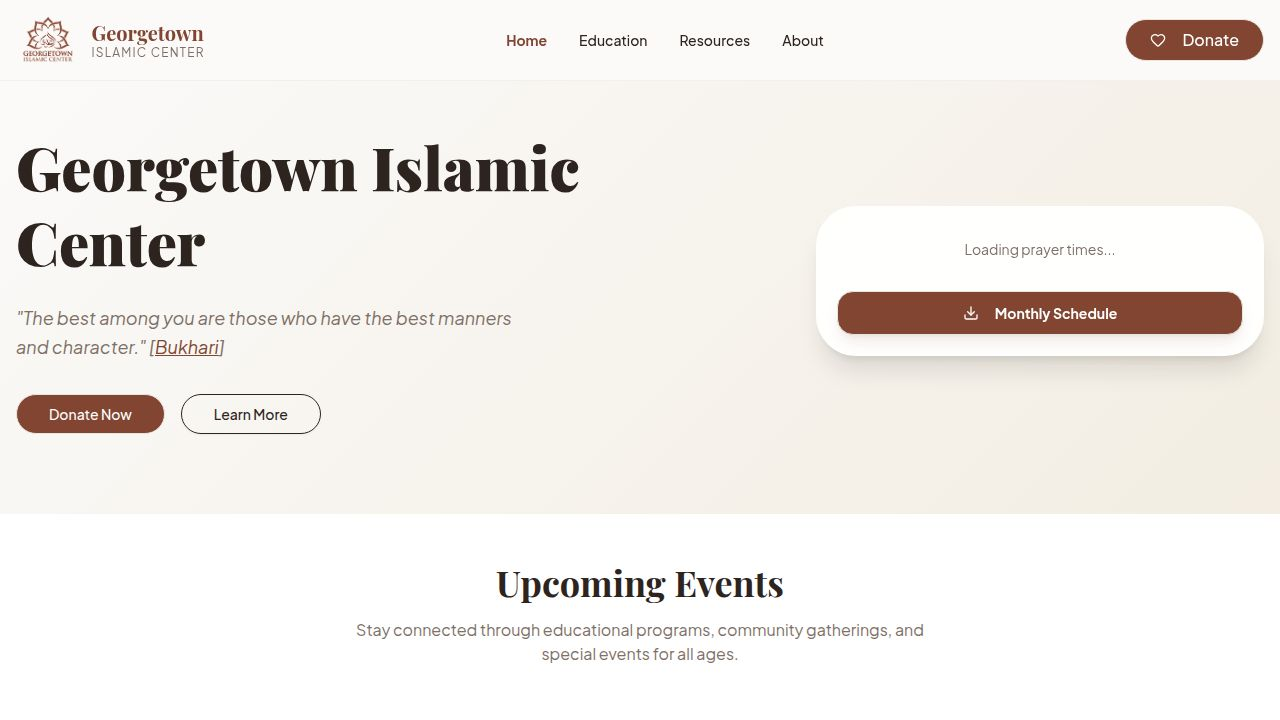
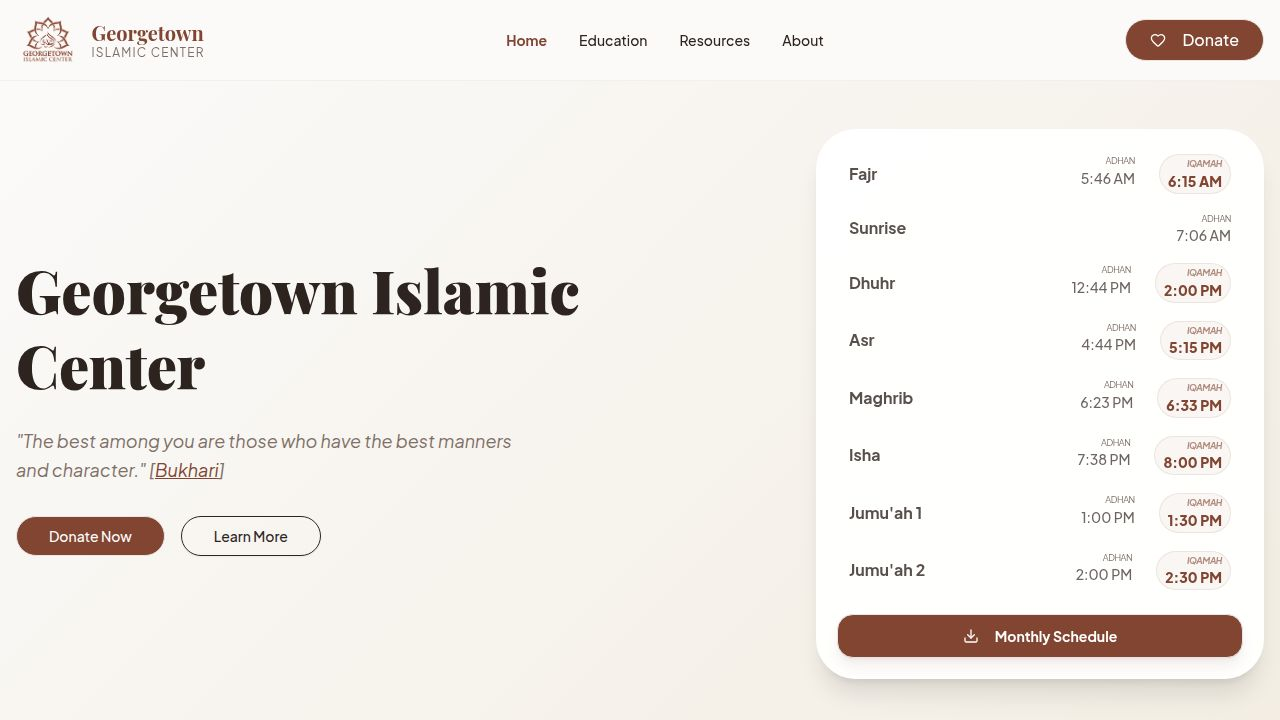
Extract announcement bar and modal into a reusable component
Extract the announcement bar and its associated modal into a new `AnnouncementBar.tsx` component. The component is then commented out in `Home.tsx` to hide it from the page for now.

Replit-Commit-Author: Agent
Replit-Commit-Session-Id: 90dbf637-7d7b-48bd-8dee-a562e8aaeab8
Replit-Commit-Checkpoint-Type: full_checkpoint
Replit-Commit-Event-Id: 462a133a-6a40-45cc-9d47-9d602764eef6
Replit-Commit-Screenshot-Url: https://storage.googleapis.com/screenshot-production-us-central1/26670e8a-67b2-4db3-b8df-8cda70fd3d49/90dbf637-7d7b-48bd-8dee-a562e8aaeab8/1Gi7UMa
Replit-Helium-Checkpoint-Created: true

diff --git a/client/src/pages/Home.tsx b/client/src/pages/Home.tsx
@@ -6,15 +6,12 @@ import { Navbar } from "@/components/Navbar";
 import { Footer } from "@/components/Footer";
 import { 
   Bell,
-  Download,
-  Megaphone,
-  X
+  Download
 } from "lucide-react";
 import { Button } from "@/components/ui/button";
 import { Card, CardContent } from "@/components/ui/card";
 import { Input } from "@/components/ui/input";
 import { Badge } from "@/components/ui/badge";
-import { Dialog, DialogContent, DialogHeader, DialogTitle } from "@/components/ui/dialog";
 import { 
   Carousel, 
   CarouselContent, 
@@ -73,7 +70,6 @@ export default function Home() {
   const [email, setEmail] = useState("");
   const [newsletterStatus, setNewsletterStatus] = useState<"idle" | "loading" | "success" | "error">("idle");
   const [selectedFlyer, setSelectedFlyer] = useState<DisplayEvent | null>(null);
-  const [announcementOpen, setAnnouncementOpen] = useState(false);
 
   const { data: prayerTimes } = useQuery<PrayerTime[]>({
     queryKey: ["/api/prayer-times"],
@@ -108,47 +104,7 @@ export default function Home() {
 
   return (
     <div className="min-h-screen flex flex-col">
-      {/* Announcement Bar */}
-      <div className="bg-amber-600 text-white py-2.5 px-4">
-        <div className="max-w-7xl mx-auto flex items-center justify-center gap-3 text-sm">
-          <Megaphone className="h-4 w-4 flex-shrink-0" />
-          <span className="font-medium truncate">Ramadan Moon Sighting Update</span>
-          <Button
-            data-testid="button-announcement-details"
-            variant="secondary"
-            size="sm"
-            className="rounded-full px-4 h-7 text-xs font-semibold flex-shrink-0 bg-white/20 text-white hover:bg-white/30 border-0"
-            onClick={() => setAnnouncementOpen(true)}
-          >
-            Read More
-          </Button>
-        </div>
-      </div>
-
-      {/* Announcement Modal */}
-      <Dialog open={announcementOpen} onOpenChange={setAnnouncementOpen}>
-        <DialogContent className="max-w-lg" data-testid="modal-announcement">
-          <DialogHeader>
-            <DialogTitle className="text-xl">Ramadan Moon Sighting Update</DialogTitle>
-          </DialogHeader>
-          <div className="space-y-4 text-sm leading-relaxed text-muted-foreground">
-            <p>Assalamu Alaikum,<br />InshaAllah, GIC will follow the local moon-sighting policy.</p>
-            <p>We will attempt to sight the crescent on Tuesday, February 17th, in coordination with the Central Hilal Committee of North America.</p>
-            <p className="font-medium text-foreground">If the moon is sighted on Tuesday, February 17th, then:</p>
-            <ul className="list-disc pl-5 space-y-1">
-              <li>Taraweeh will begin Tuesday night, February 17th</li>
-              <li>First fast will be on Wednesday, February 18th</li>
-            </ul>
-            <p className="font-medium text-foreground">If the moon is NOT sighted on Tuesday, February 17th, then:</p>
-            <ul className="list-disc pl-5 space-y-1">
-              <li>Taraweeh will begin Wednesday night, February 18th</li>
-              <li>First fast will be on Thursday, February 19th</li>
-            </ul>
-            <p>May Allah (SWT) accept our ibadah, fasting, and duas in this blessed month.</p>
-            <p className="font-semibold text-foreground">Ramadan Mubarak!</p>
-          </div>
-        </DialogContent>
-      </Dialog>
+      {/* <AnnouncementBar /> */}
 
       <Navbar />
 

diff --git a/client/src/components/AnnouncementBar.tsx b/client/src/components/AnnouncementBar.tsx
@@ -1,0 +1,52 @@
+import { useState } from "react";
+import { Megaphone } from "lucide-react";
+import { Button } from "@/components/ui/button";
+import { Dialog, DialogContent, DialogHeader, DialogTitle } from "@/components/ui/dialog";
+
+export function AnnouncementBar() {
+  const [open, setOpen] = useState(false);
+
+  return (
+    <>
+      <div className="bg-amber-600 text-white py-2.5 px-4">
+        <div className="max-w-7xl mx-auto flex items-center justify-center gap-3 text-sm">
+          <Megaphone className="h-4 w-4 flex-shrink-0" />
+          <span className="font-medium truncate">Ramadan Moon Sighting Update</span>
+          <Button
+            data-testid="button-announcement-details"
+            variant="secondary"
+            size="sm"
+            className="rounded-full px-4 h-7 text-xs font-semibold flex-shrink-0 bg-white/20 text-white hover:bg-white/30 border-0"
+            onClick={() => setOpen(true)}
+          >
+            Read More
+          </Button>
+        </div>
+      </div>
+
+      <Dialog open={open} onOpenChange={setOpen}>
+        <DialogContent className="max-w-lg" data-testid="modal-announcement">
+          <DialogHeader>
+            <DialogTitle className="text-xl">Ramadan Moon Sighting Update</DialogTitle>
+          </DialogHeader>
+          <div className="space-y-4 text-sm leading-relaxed text-muted-foreground">
+            <p>Assalamu Alaikum,<br />InshaAllah, GIC will follow the local moon-sighting policy.</p>
+            <p>We will attempt to sight the crescent on Tuesday, February 17th, in coordination with the Central Hilal Committee of North America.</p>
+            <p className="font-medium text-foreground">If the moon is sighted on Tuesday, February 17th, then:</p>
+            <ul className="list-disc pl-5 space-y-1">
+              <li>Taraweeh will begin Tuesday night, February 17th</li>
+              <li>First fast will be on Wednesday, February 18th</li>
+            </ul>
+            <p className="font-medium text-foreground">If the moon is NOT sighted on Tuesday, February 17th, then:</p>
+            <ul className="list-disc pl-5 space-y-1">
+              <li>Taraweeh will begin Wednesday night, February 18th</li>
+              <li>First fast will be on Thursday, February 19th</li>
+            </ul>
+            <p>May Allah (SWT) accept our ibadah, fasting, and duas in this blessed month.</p>
+            <p className="font-semibold text-foreground">Ramadan Mubarak!</p>
+          </div>
+        </DialogContent>
+      </Dialog>
+    </>
+  );
+}
